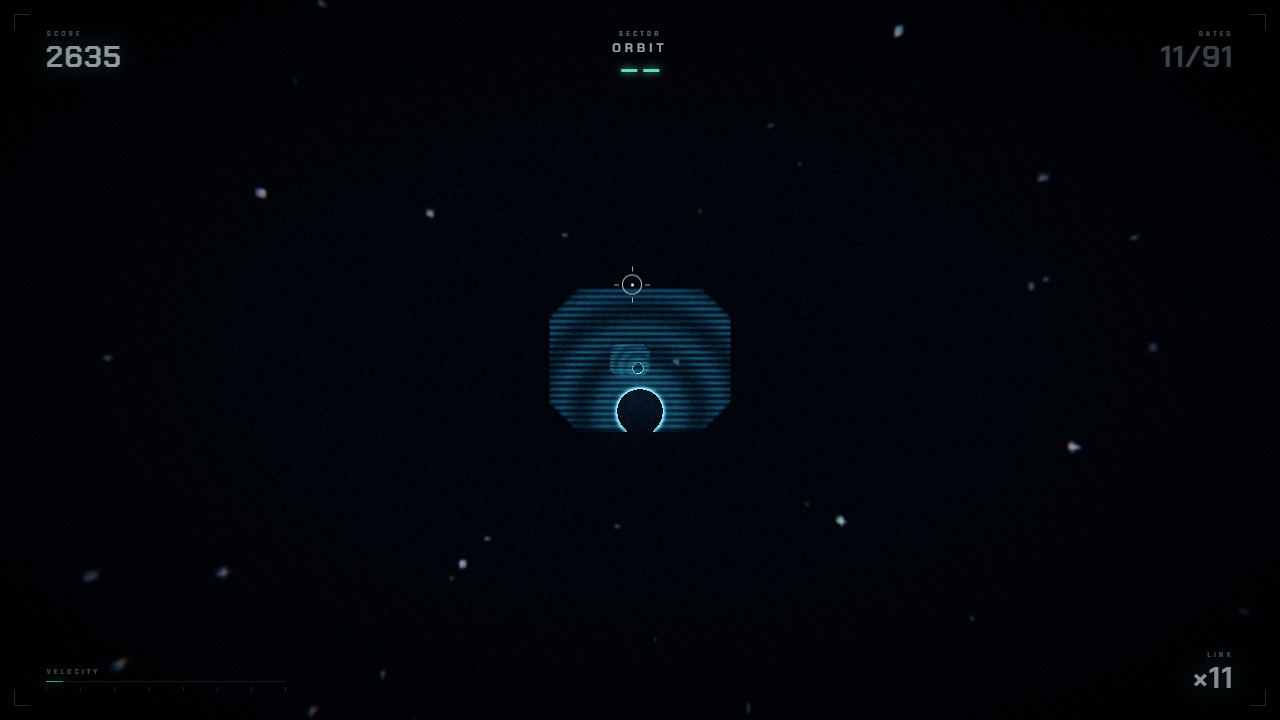
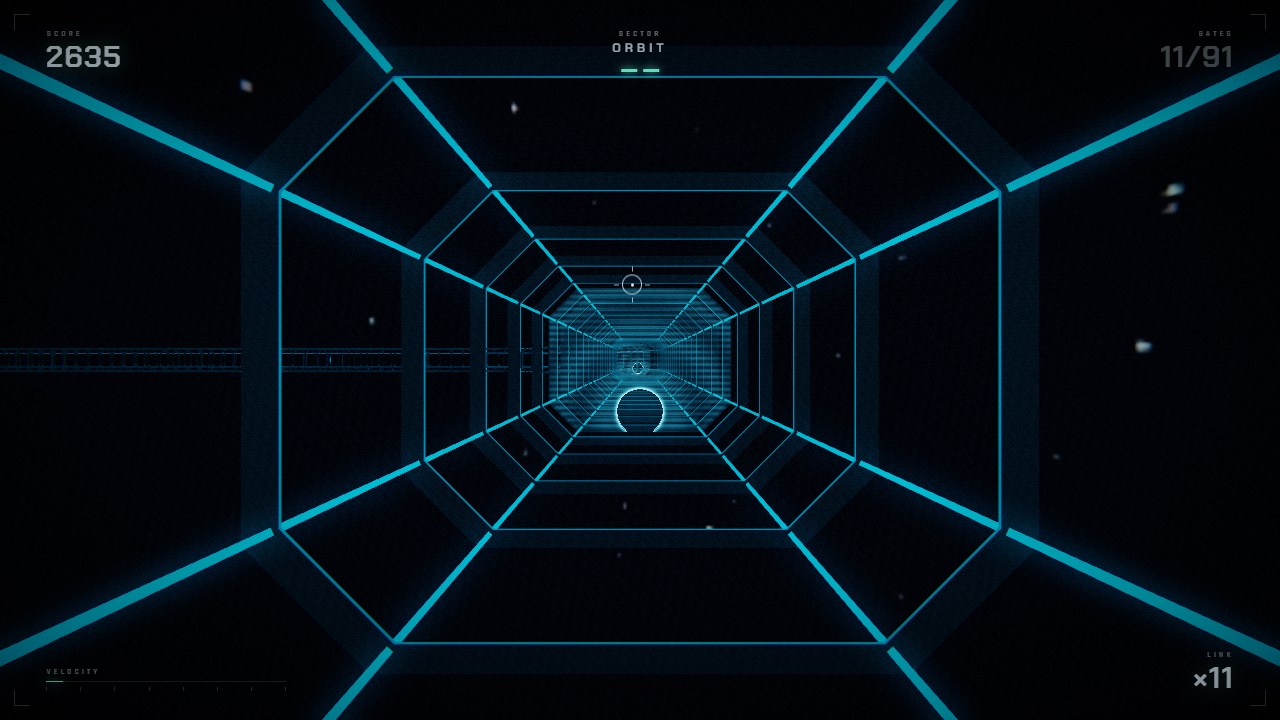
feat(vol4): ORBIT keeps the corridor, as light only
The hull is skipped for the orbit topology but the ribs, rims and corner light
ribbons are still built, so you fly down a glowing skeleton of the corridor
with stars behind it. Remove a solid and what is left is its edges.

Also removes the early return in Tunnel.update that stopped chunk generation
altogether — that was why the previous pass showed a single floating pane.

diff --git a/js/main.js b/js/main.js
@@ -1,13 +1,13 @@
 import * as THREE from 'three';
-import { buildTextures } from './textures.js?v=2026-11-10n';
-import { Tunnel, TUNNEL } from './tunnel.js?v=2026-11-10n';
-import { buildPath } from './path.js?v=2026-11-10n';
-import { Gates, laneOf, lanePoint } from './gates.js?v=2026-11-10n';
-import { PostFX } from './post.js?v=2026-11-10n';
-import { AudioEngine } from './audio.js?v=2026-11-10n';
-import { chartFor, DIFFICULTY, SONG_BEATS } from './chart.js?v=2026-11-10n';
-import { VOL } from './volumes.js?v=2026-11-10n';
-import { Recorder } from './recorder.js?v=2026-11-10n';
+import { buildTextures } from './textures.js?v=2026-11-10p';
+import { Tunnel, TUNNEL } from './tunnel.js?v=2026-11-10p';
+import { buildPath } from './path.js?v=2026-11-10p';
+import { Gates, laneOf, lanePoint } from './gates.js?v=2026-11-10p';
+import { PostFX } from './post.js?v=2026-11-10p';
+import { AudioEngine } from './audio.js?v=2026-11-10p';
+import { chartFor, DIFFICULTY, SONG_BEATS } from './chart.js?v=2026-11-10p';
+import { VOL } from './volumes.js?v=2026-11-10p';
+import { Recorder } from './recorder.js?v=2026-11-10p';
 
 /* ------------------------------------------------------------------ *
  *  Boot flags

diff --git a/js/tunnel.js b/js/tunnel.js
@@ -139,6 +139,7 @@ export class Tunnel {
     for (let s = s0; s < s1; s += TUNNEL.ring) rings.push(s);
     rings.push(s1);
 
+    const ghost = VOL.topology === 'orbit';   // light frame only, no hull
     const shell = { pos: [], nor: [], uv: [], idx: [] };
     const rib = { pos: [], nor: [], idx: [] };
     const rim = { pos: [], nor: [], idx: [] };
@@ -162,7 +163,7 @@ export class Tunnel {
       const vA = sA / totalPerim * 3.0;
       const vB = sB / totalPerim * 3.0;
 
-      for (let i = 0; i < edges; i++) {
+      for (let i = 0; i < edges && !ghost; i++) {
         const p0 = P[i], p1 = P[(i + 1) % n];
         const ex = p1[0] - p0[0], ey = p1[1] - p0[1];
         const el = Math.hypot(ex, ey) || 1;
@@ -258,7 +259,6 @@ export class Tunnel {
 
   /* ---------------- streaming ---------------- */
   update(s) {
-    if (VOL.topology === 'orbit') return;   // nothing to build: you are in the void
     this.moveLights(s);
 
     const need0 = s - KEEP_BEHIND;

diff --git a/js/gates.js b/js/gates.js
@@ -1,6 +1,6 @@
 import * as THREE from 'three';
-import { TUNNEL } from './tunnel.js?v=2026-11-10n';
-import { VOL } from './volumes.js?v=2026-11-10n';
+import { TUNNEL } from './tunnel.js?v=2026-11-10p';
+import { VOL } from './volumes.js?v=2026-11-10p';
 
 /* ------------------------------------------------------------------ *
  *  A bulkhead is not a sheet with a hole in it — it is a set of glass

diff --git a/js/chart.js b/js/chart.js
@@ -9,7 +9,7 @@
  *      0 E   1 NE   2 N   3 NW   4 W   5 SW   6 S   7 SE
  * ------------------------------------------------------------------ */
 
-import { VOL } from './volumes.js?v=2026-11-10n';
+import { VOL } from './volumes.js?v=2026-11-10p';
 
 export const SONG_BEATS = VOL.beats;
 export const BPM = VOL.bpm;

diff --git a/js/audio.js b/js/audio.js
@@ -6,7 +6,7 @@
  *  from the audio clock so the visuals lock to the beat.
  * ------------------------------------------------------------------ */
 
-import { VOL } from './volumes.js?v=2026-11-10n';
+import { VOL } from './volumes.js?v=2026-11-10p';
 
 const MOOD = VOL.music;
 
